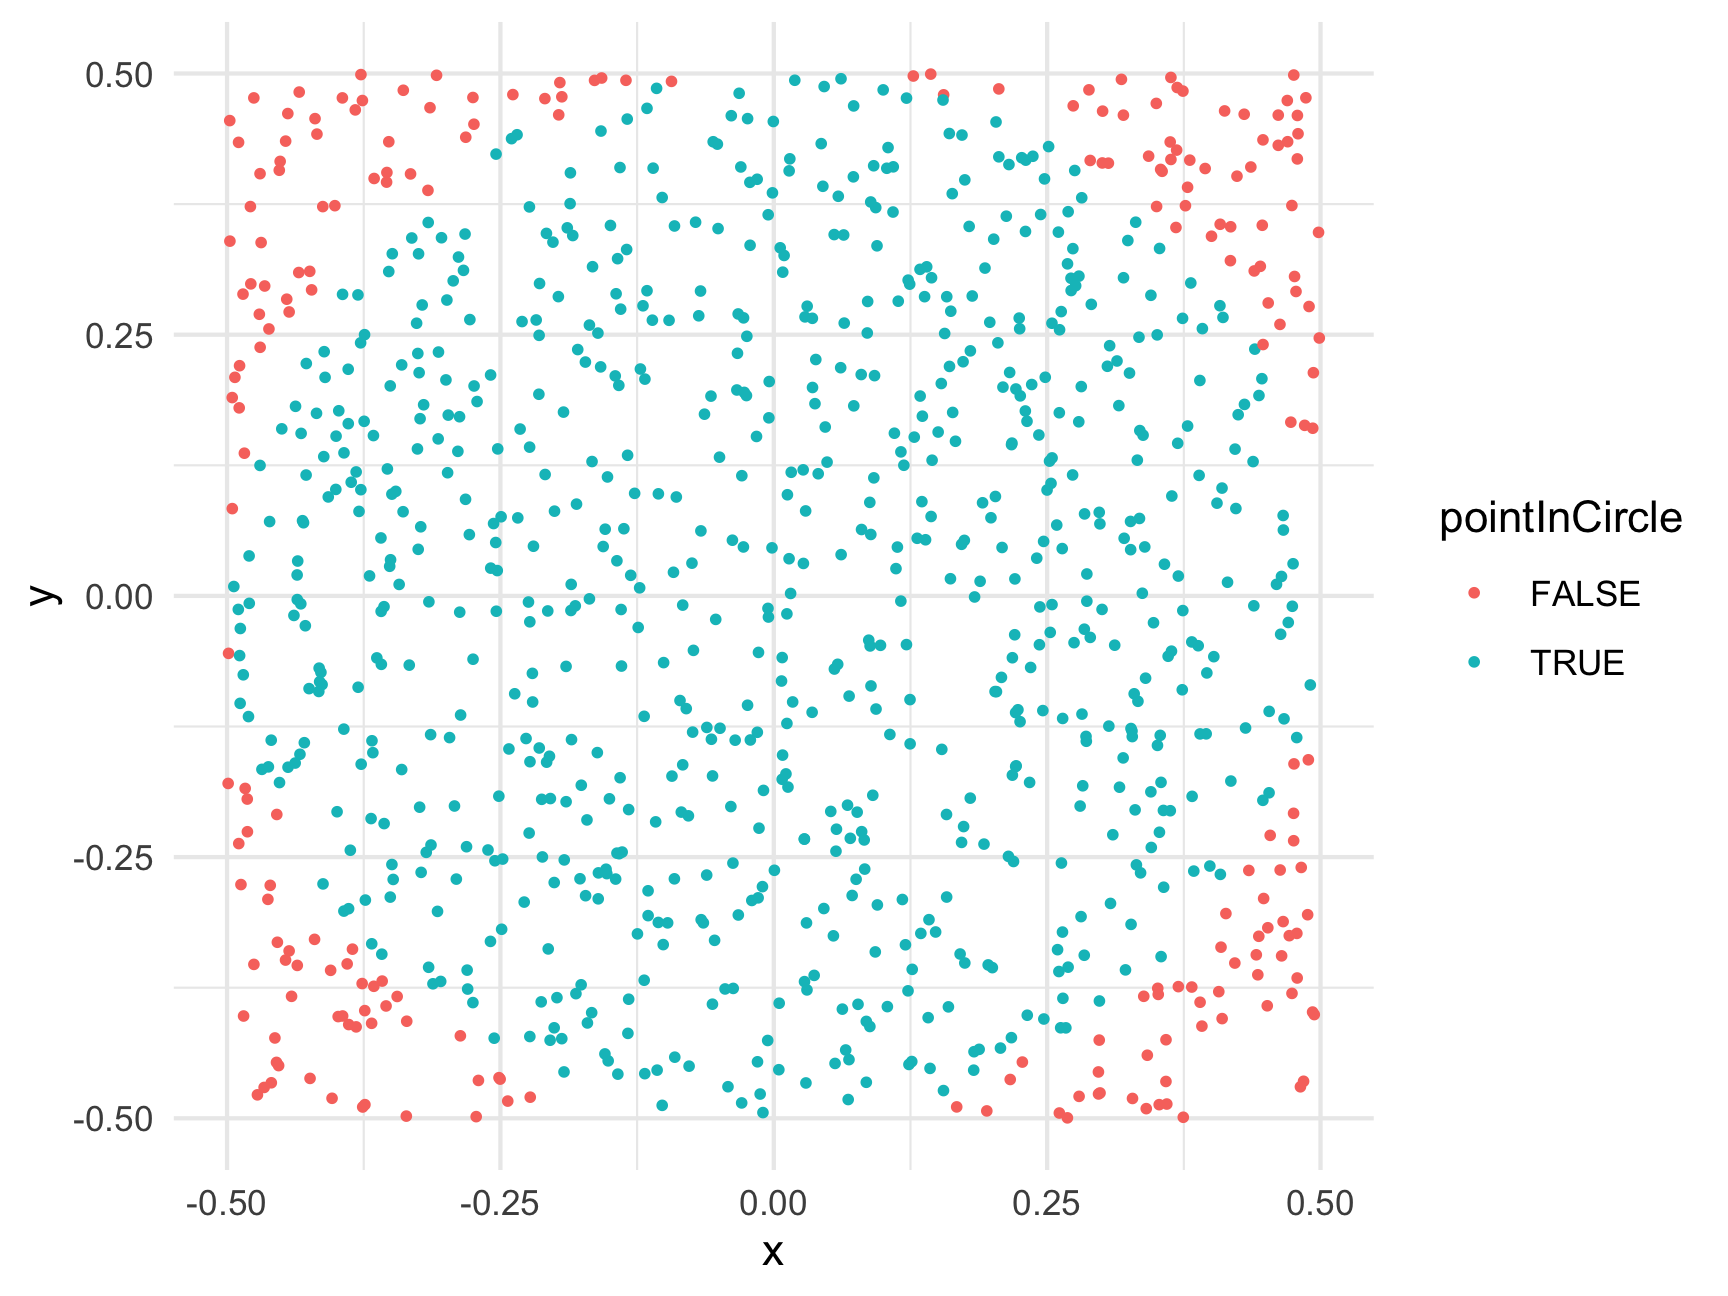
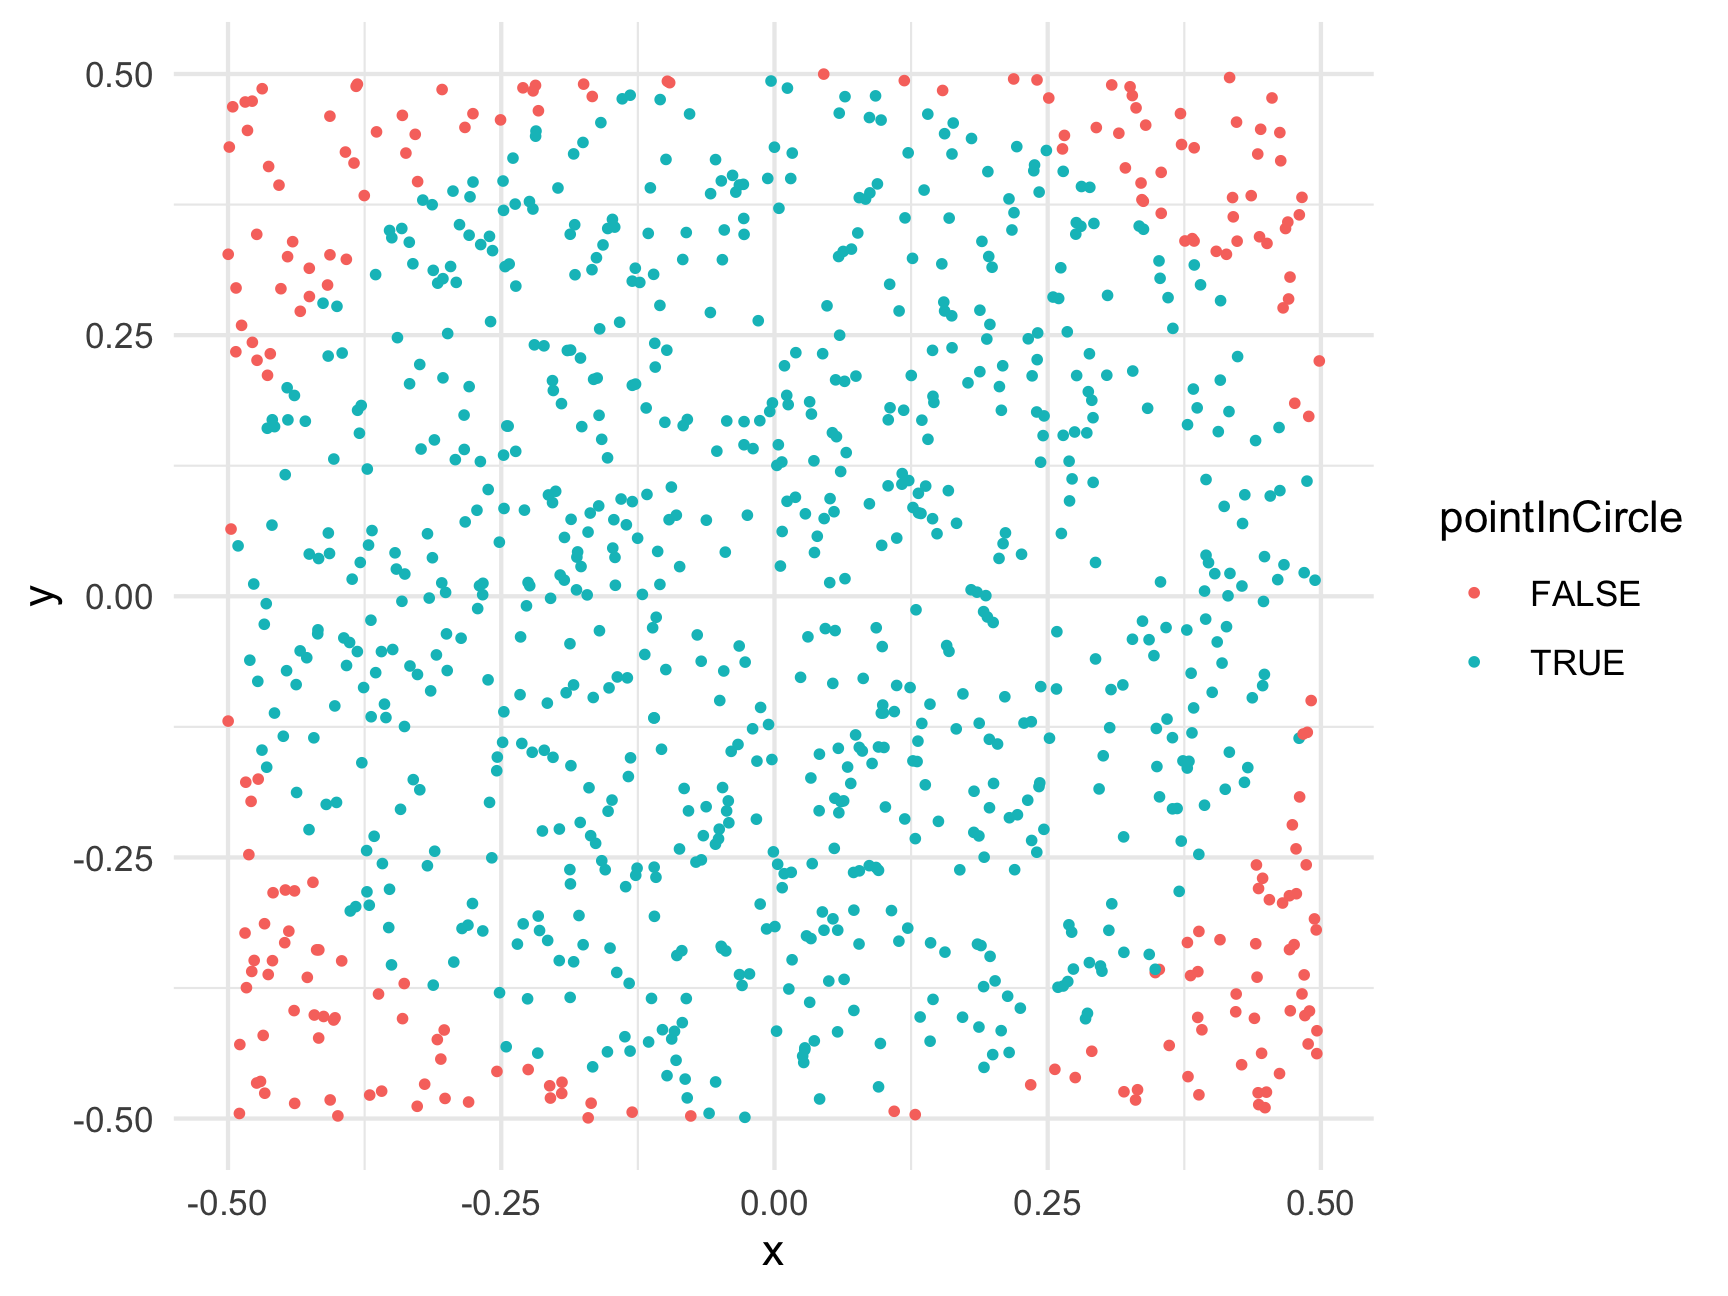
Deploying to gh-pages from  @ ae9858652cfcb0e6685bcc89decf895f468eb882 🚀

Changed region(s): [[0.125, 0.0617, 0.7812, 0.8642], [0.4375, 0.9259, 0.4688, 0.9568], [0.0625, 0.6481, 0.0938, 0.679]]

diff --git a/r13-monte-carlo-methods.html b/r13-monte-carlo-methods.html
@@ -805,11 +805,11 @@ ratio &lt;- sum(belowCurve) / numTrials
 totalArea &lt;- (7 - 3) * 7^2 # Rectangle length x height = 196
 areaUnderCurve &lt;- ratio * totalArea
 areaUnderCurve</code></pre>
-<pre><code>#&gt; [1] 105.3892</code></pre>
-<p>So, using Monte Carlo simulation with 100,000 points, we estimate that the area under the curve is 105.3892. How’d we do? Well, if you’re familiar with calculus, the integral of <span class="math inline">\(f(x) = x^2\)</span> has a closed-form solution (<span class="math inline">\(\frac{x^3}{3} + C\)</span>), so we can check our estimate against the pure-math solution:</p>
+<pre><code>#&gt; [1] 105.9243</code></pre>
+<p>So, using Monte Carlo simulation with 100,000 points, we estimate that the area under the curve is 105.92428. How’d we do? Well, if you’re familiar with calculus, the integral of <span class="math inline">\(f(x) = x^2\)</span> has a closed-form solution (<span class="math inline">\(\frac{x^3}{3} + C\)</span>), so we can check our estimate against the pure-math solution:</p>
 <p><span class="math display">\[\int_{3}^{7} x^2 \mathrm{dx} = \left ( \frac{x^3}{3} \right ) \Big|_3^7 = \frac{7^3}{3} - \frac{3^3}{3} = 105.33\bar{3}\]</span></p>
-<p>So our estimate error is: <code>105.333 -</code> <code>105.3892</code> <code>=</code> <code>-0.0558667</code>.</p>
-<p>That’s an error of just 0.05 % - not bad!</p>
+<p>So our estimate error is: <code>105.333 -</code> <code>105.92428</code> <code>=</code> <code>-0.5909467</code>.</p>
+<p>That’s an error of just 0.56 % - not bad!</p>
 <hr />
 </div>
 <div id="monte-carlo-pi" class="section level1">
@@ -839,13 +839,13 @@ points &lt;- data.frame(
     x = runif(numTrials, -0.5, 0.5),
     y = runif(numTrials, -0.5, 0.5))
 head(points)</code></pre>
-<pre><code>#&gt;            x           y
-#&gt; 1  0.1553236  0.47960059
-#&gt; 2  0.3541954 -0.34524260
-#&gt; 3  0.2637728  0.04529111
-#&gt; 4  0.4225849  0.08362552
-#&gt; 5 -0.2341119  0.07467990
-#&gt; 6  0.2036213 -0.09165731</code></pre>
+<pre><code>#&gt;             x           y
+#&gt; 1 -0.45741877  0.16238742
+#&gt; 2  0.05523371 -0.19331923
+#&gt; 3  0.25942034 -0.37429499
+#&gt; 4  0.22232171 -0.20916445
+#&gt; 5  0.39110303 -0.41501548
+#&gt; 6 -0.43764508 -0.08455318</code></pre>
 <p>For this example, we’re putting the points in a data frame to make it easier to work with. Now that we have random x and y points, let’s compute the radius to each point (the distance from <code>(x, y) = (0, 0)</code>) so we can determine which points fall inside the circle (which has a radius of 0.5):</p>
 <pre class="r"><code>library(dplyr)
 points &lt;- points %&gt;%
@@ -862,9 +862,9 @@ ggplot(points) +
 <pre class="r"><code>ratio &lt;- sum(points$pointInCircle) / nrow(points)
 piApprox &lt;- 4 * ratio
 piApprox</code></pre>
-<pre><code>#&gt; [1] 3.092</code></pre>
-<p>So our estimate error is: <code>3.1415 -</code> <code>3.092</code> <code>=</code> <code>-0.0495927</code>.</p>
-<p>That’s an error of just 1.58 % - not bad for only 1,000 points!</p>
+<pre><code>#&gt; [1] 3.12</code></pre>
+<p>So our estimate error is: <code>3.1415 -</code> <code>3.12</code> <code>=</code> <code>-0.0215927</code>.</p>
+<p>That’s an error of just 0.69 % - not bad for only 1,000 points!</p>
 <p>To get an even better estimate of <span class="math inline">\(\pi\)</span>, we can increase N. Let’s see what we get with 100,000 trials:</p>
 <pre class="r"><code>numTrials &lt;- 100000
 points &lt;- data.frame(
@@ -876,13 +876,13 @@ points &lt;- data.frame(
 ratio &lt;- sum(points$pointInCircle) / nrow(points)
 piApprox &lt;- 4 * ratio
 piApprox</code></pre>
-<pre><code>#&gt; [1] 3.13712</code></pre>
+<pre><code>#&gt; [1] 3.14196</code></pre>
 <pre class="r"><code># Compute error:
 error &lt;- piApprox - pi
 percentError &lt;- round(100*abs(error / pi), 2)
 percentError</code></pre>
-<pre><code>#&gt; [1] 0.14</code></pre>
-<p>By increasing the number of trials from 1,000 to 100,000, we improved our estimate error from 1.58 % to 0.14 %!</p>
+<pre><code>#&gt; [1] 0.01</code></pre>
+<p>By increasing the number of trials from 1,000 to 100,000, we improved our estimate error from 0.69 % to 0.01 %!</p>
 <hr />
 <p><strong>Page sources</strong>:</p>
 <p>Some content on this page has been modified from other courses, including:</p>

diff --git a/r2-functions-packages.html b/r2-functions-packages.html
@@ -763,7 +763,7 @@ div.tocify {
 <p>Here the letters <code>sqrt</code> are short for “square root,” and the value inside the <code>()</code> is the “argument” to the function. In the example above, the value <code>225</code> is the “argument”.</p>
 <p>Keep in mind that not all functions have (or require) arguments:</p>
 <pre class="r"><code>date() # Returns the current date and time</code></pre>
-<pre><code>#&gt; [1] &quot;Thu Jan 13 14:58:22 2022&quot;</code></pre>
+<pre><code>#&gt; [1] &quot;Sat Jan 15 12:28:15 2022&quot;</code></pre>
 <p>(the date above is the date this page was last built)</p>
 <div id="multiple-arguments" class="section level2">
 <h2>Multiple arguments</h2>
@@ -981,9 +981,9 @@ library(packagename)   # This also works</code></pre>
 <p>Now that you have the package installed on your computer, try loading it using <code>library(wikifacts)</code>, then trying using some of it’s functions:</p>
 <pre class="r"><code>library(wikifacts) # Load the library</code></pre>
 <pre class="r"><code>wiki_randomfact()</code></pre>
-<pre><code>#&gt; [1] &quot;Did you know that in 2008, the Max-Reger-Institute in Karlsruhe began publishing the complete works by Max Reger (pictured)? (Courtesy of Wikipedia)&quot;</code></pre>
+<pre><code>#&gt; [1] &quot;Here&#39;s some news from 20 October 2015. Alexander Lukashenko is re-elected President of Belarus for a fifth term. (Courtesy of Wikipedia)&quot;</code></pre>
 <pre class="r"><code>wiki_didyouknow()</code></pre>
-<pre><code>#&gt; [1] &quot;Did you know that US Navy Rear Admiral Alma M. Grocki (pictured) played a key role in the creation of breast insignia for the engineering duty officer role? (Courtesy of Wikipedia)&quot;</code></pre>
+<pre><code>#&gt; [1] &quot;Did you know that Clebsch–Gordan coefficients, which describe how spinning objects influence each other in quantum mechanics, come from the structure of semisimple representations? (Courtesy of Wikipedia)&quot;</code></pre>
 <p>In case you’re wondering, the only thing this package does is generate messages containing random facts from <a href="https://www.wikipedia.org/">Wikipedia</a>.</p>
 </div>
 <div id="using-only-some-package-functions" class="section level2">
@@ -994,7 +994,7 @@ library(packagename)   # This also works</code></pre>
 </blockquote>
 <p>Here I use the name of the <em>package</em> followed by <code>::</code> to tell R that I’m looking for a function that is in that package. For example, if I didn’t want to load the whole <strong>wikifacts</strong> library but still wanted to use the <code>wiki_randomfact()</code> function, I could do this:</p>
 <pre class="r"><code>wikifacts::wiki_randomfact()</code></pre>
-<pre><code>#&gt; [1] &quot;Did you know that Louis H. Fead, Chief Justice of the Michigan Supreme Court, was recognized for common sense opinions devoid of erudition? (Courtesy of Wikipedia)&quot;</code></pre>
+<pre><code>#&gt; [1] &quot;Did you know that on April 7 in 1940 – Educator Booker T. Washington (pictured) became the first African American to be featured on a U.S. postage stamp. (Courtesy of Wikipedia)&quot;</code></pre>
 <p>Where this is particularly handy is when two packages have a function with the same name. If you load both library, R might not know which function to use. In those cases, it’s best to also provide the <strong>package</strong> name. For example, let’s say there was a package called <strong>apples</strong> and another called <strong>bananas</strong>, and each had a function named <code>fruitName()</code>. If I wanted to use each of them in my code, I would need to specify the package names like this:</p>
 <pre class="r"><code>apples::fruitName()
 bananas::fruitName()</code></pre>

diff --git a/schedule.html b/schedule.html
@@ -684,21 +684,21 @@ Reading
 </thead>
 <tbody>
 <tr>
-<td style="text-align:center;">
+<td style="text-align:center;background-color: #e1e1e1 !important;">
 1
 </td>
-<td style="text-align:center;width: 2em; ">
+<td style="text-align:center;width: 2em; background-color: #e1e1e1 !important;">
 Jan 13
 </td>
-<td style="text-align:left;">
+<td style="text-align:left;background-color: #e1e1e1 !important;">
 </td>
-<td style="text-align:left;width: 20em; ">
+<td style="text-align:left;width: 20em; background-color: #e1e1e1 !important;">
 <a href="c1-getting-started.html"><i class="fas fa-laptop-code"></i></a> <strong>Getting Started</strong><br>Class orientation, intro to R, workflow, problem solving
 </td>
-<td style="text-align:left;width: 9em; ">
+<td style="text-align:left;width: 9em; background-color: #e1e1e1 !important;">
 <a href="hw1-getting-started.html"><i class="fas fa-pencil-ruler"></i></a> <strong>HW 1</strong><br>Due: Jan 19
 </td>
-<td style="text-align:left;">
+<td style="text-align:left;background-color: #e1e1e1 !important;">
 <a href="r1.1-getting-started"><i class="fas fa-book"></i></a> Getting Started<br><a href="r1.2-operations-data-types"><i class="fas fa-book"></i></a> Operations &amp; Data Types<br><a href="r2-functions-packages"><i class="fas fa-book"></i></a> Functions &amp; Packages
 </td>
 </tr>
